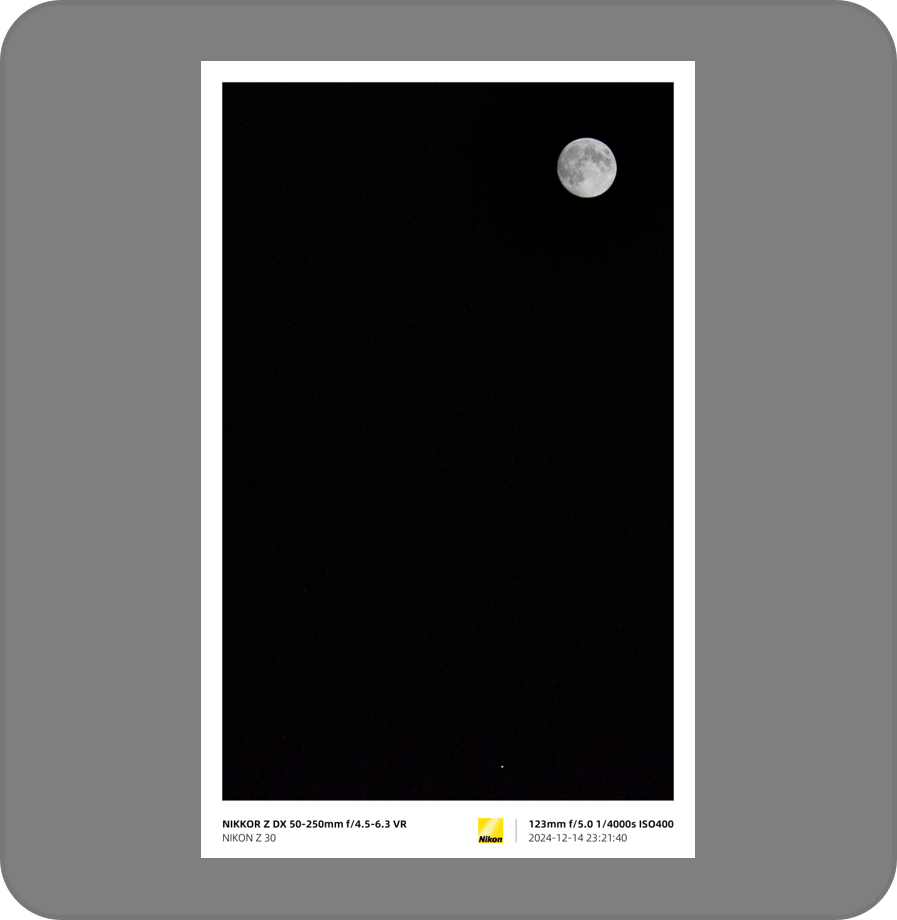
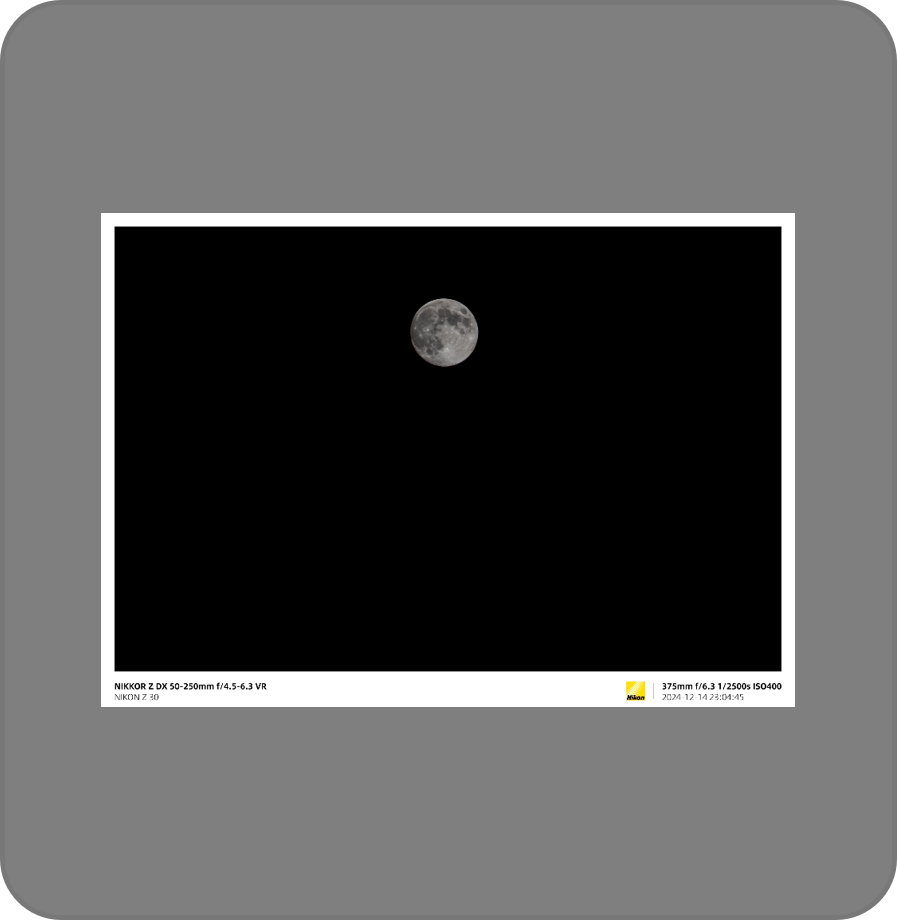
1. 优化水印样式排布
2. 添加一个水印样式

diff --git a/templates/index.html b/templates/index.html
@@ -22,8 +22,8 @@
         }
 
         img {
-            max-width: 500px;
-            max-height: 500px;
+            max-width: 400px;
+            max-height: 400px;
             margin: 10px 0;
         }
 
@@ -96,6 +96,114 @@
             padding: 0;
         }
         
+        .watermark-selection {
+            display: flex;
+            flex-direction: row;
+            gap: 20px;
+            overflow-x: scroll;
+            overflow-y: hidden;
+            padding-bottom: 10px;
+            -ms-overflow-style: none;  
+            scrollbar-width: none;
+            justify-content: center;
+            padding-left: 10px;  /* 保持左边距 */
+            padding-right: 10px;  /* 保持右边距 */
+            width: 100%;
+        }
+        
+        .watermark-selection::-webkit-scrollbar {
+            display: none;
+        }
+
+        .watermark-selection label {
+            outline: none;
+            -webkit-tap-highlight-color: transparent; 
+            display: flex;
+            flex-direction: column;
+            align-items: center;
+            cursor: pointer;
+            width: 200px;
+            position: relative;
+            transition: transform 0.3s ease;
+            flex-shrink: 0;  /* 防止图片被压缩 */
+            scroll-snap-align: start;  /* 滚动时对齐每个图片 */
+        }
+        
+        .watermark-selection input[type="radio"] {
+            display: none;
+        }
+
+        .watermark-selection input[type="radio"]:not(:checked):hover + label img,
+        .watermark-selection input[type="radio"]:not(:checked):focus + label img {
+            border: none;
+        }
+        
+        .watermark-selection label:hover {
+            transform: scale(1.05);
+        }
+
+        .watermark-selection img {
+            max-width: 100%;
+            height: auto;
+            margin-bottom: 10px;
+            transition: border 0.3s ease, transform 0.3s ease;
+        }
+
+        .watermark-selection input[type="radio"]:checked + label img,
+        .watermark-selection label:hover img {
+            border: 3px solid #3498db;
+            border-radius: 15px;
+        }
+        
+        @media (max-width: 768px) {
+            .watermark-selection {
+                justify-content: flex-start;
+                gap: 12px;
+            }
+
+            .watermark-selection label {
+                outline: none;
+                -webkit-tap-highlight-color: transparent;
+                display: flex;
+                flex-direction: column;
+                align-items: center;
+                cursor: pointer;
+                width: 140px;
+                position: relative;
+                transition: transform 0.3s ease;
+            }
+            
+        
+            .watermark-selection img {
+                width: 130px;
+                height: 130px;
+            }
+        
+            .custom-file-label {
+                font-size: 14px;
+                padding: 8px 16px;
+            }
+        
+            button, a {
+                font-size: 14px;
+                padding: 8px 16px;
+            }
+        
+            h1 {
+                font-size: 24px;
+            }
+        
+            .lang-buttons {
+                top: 20px;
+                right: 10px;
+            }
+        
+            .loader {
+                width: 40px;
+                height: 40px;
+            }
+        }
+    
     </style>
 </head>
 <body>
@@ -119,6 +227,7 @@
     <!-- 加载动画 -->
     <div id="loader" class="loader"></div>
 
+    <h2>Watermark types</h2>
     <div class="watermark-selection">
         <input type="radio" name="watermark_type" id="watermark1" value="1">
         <label for="watermark1">
@@ -129,6 +238,32 @@
         <label for="watermark2">
             <img src="{{ url_for('static', filename='t2.png') }}" alt="Watermark 2" width="200" height="200">
         </label>
+
+        <input type="radio" name="watermark_type" id="watermark3" value="3">
+        <label for="watermark3">
+            <img src="{{ url_for('static', filename='t3.png') }}" alt="Watermark 3" width="200" height="200">
+        </label>
+        
+        <!-- <input type="radio" name="watermark_type" id="watermark5" value="5">
+        <label for="watermark5">
+            <img src="{{ url_for('static', filename='t2.png') }}" alt="Watermark 5" width="200" height="200">
+        </label>
+
+        <input type="radio" name="watermark_type" id="watermark6" value="6">
+        <label for="watermark6">
+            <img src="{{ url_for('static', filename='t2.png') }}" alt="Watermark 6" width="200" height="200">
+        </label>
+
+        <input type="radio" name="watermark_type" id="watermark7" value="7">
+        <label for="watermark7">
+            <img src="{{ url_for('static', filename='t2.png') }}" alt="Watermark 7" width="200" height="200">
+        </label>
+
+        <input type="radio" name="watermark_type" id="watermark8" value="8">
+        <label for="watermark8">
+            <img src="{{ url_for('static', filename='t2.png') }}" alt="Watermark 8" width="200" height="200">
+        </label> -->
+
     </div>
 
     <!-- 处理后的图片显示 -->
@@ -137,16 +272,40 @@
     <a id="downloadBtn" style="display:none;">Download Processed Image</a>
     
     <script>
+        const watermarkSelection = document.querySelector('.watermark-selection');
+        const images = watermarkSelection.querySelectorAll('img');
+
+        watermarkSelection.addEventListener('scroll', function() {
+            const scrollLeft = watermarkSelection.scrollLeft;
+            const scrollWidth = watermarkSelection.scrollWidth;
+            const clientWidth = watermarkSelection.clientWidth;
+    
+            // 滚动到最左边时隐藏最左边图片
+            if (scrollLeft === 0) {
+                labels[0].style.visibility = 'hidden';  // 最左边的图片消失
+            } else {
+                labels[0].style.visibility = 'visible'; // 恢复显示
+            }
+    
+            // 滚动到最右边时隐藏最右边图片
+            if (scrollLeft + clientWidth >= scrollWidth) {
+                labels[labels.length - 1].style.visibility = 'hidden';  // 最右边的图片消失
+            } else {
+                labels[labels.length - 1].style.visibility = 'visible'; // 恢复显示
+            }
+            });
+            
         const translations = {
             en: {
                 title: "Image Watermark Web",
                 chooseFile: "Choose File",
                 uploadedImage: "Uploaded Image",
+                watermarkTypes: "Watermark types",
                 processImage: "Process Image",
                 processedImage: "Processed Image",
                 downloadImage: "Download Processed Image",
                 alerts: {
-                    uploadSuccess: "Image processed successfully!",
+                    uploadSuccess: "Watemark added successfully!",
                     uploadError: "Unexpected error occurred.",
                     selectWatermark: "Please select a watermark style!"
                 }
@@ -155,11 +314,12 @@
                 title: "边框水印",
                 chooseFile: "选择文件",
                 uploadedImage: "已上传图片",
+                watermarkTypes: "水印样式",
                 processImage: "开始添加水印",
                 processedImage: "已添加水印的图片",
                 downloadImage: "下载已添加水印的图片",
                 alerts: {
-                    uploadSuccess: "图片处理成功！",
+                    uploadSuccess: "水印添加成功！",
                     uploadError: "发生意外错误。",
                     selectWatermark: "请选择一种水印样式！"
                 }
@@ -173,8 +333,9 @@
             document.querySelector('h1').textContent = translations[lang].title;
             document.querySelector('.custom-file-label').textContent = translations[lang].chooseFile;
             document.querySelector('h2:nth-of-type(1)').textContent = translations[lang].uploadedImage;
+            document.querySelector('h2:nth-of-type(2)').textContent = translations[lang].watermarkTypes;
             document.getElementById('processBtn').textContent = translations[lang].processImage;
-            document.querySelector('h2:nth-of-type(2)').textContent = translations[lang].processedImage;
+            document.querySelector('h2:nth-of-type(3)').textContent = translations[lang].processedImage;
             document.getElementById('downloadBtn').textContent = translations[lang].downloadImage;
         }
 

diff --git a/image_utils.py b/image_utils.py
@@ -52,7 +52,7 @@ def draw_line(origin_image, start_x, start_y, end_x, end_y):
 def calculate_position(x, y_offset, x_adjust=0, y_adjust=0):
         return (x + x_adjust, y_offset + y_adjust)    
                 
-def generate_watermark_image(origin_image, logo_path, camera_info, shooting_info, font_path_thin, font_path_bold,  watermark_type = 1, font_size = 60):
+def generate_watermark_image(origin_image, logo_path, camera_info, shooting_info, font_path_thin, font_path_bold,  watermark_type = 3, font_size = 60):
     ori_width, ori_height = origin_image.size
     bottom_width = int(ORIGIN_BOTTOM_BORDER_RATIO * ori_height)
     top_width = int(ORIGIN_TOP_BORDER_RATIO * ori_height)
@@ -62,12 +62,16 @@ def generate_watermark_image(origin_image, logo_path, camera_info, shooting_info
         origin_image = ImageOps.expand(origin_image, 
                         border=(border_width, top_width, border_width, bottom_width), 
                         fill='white')
-    else:
+    elif watermark_type == 2:
         top_width = 0
         origin_image = ImageOps.expand(origin_image, 
                         border=(0, 0, 0, bottom_width), 
                         fill='white')
-    
+    else:
+        origin_image = ImageOps.expand(origin_image, 
+                        border=(border_width, top_width, border_width, int(1.5 * bottom_width)), 
+                        fill='white')
+    expanded_width, expanded_height = origin_image.size
     line_blank = 40
     logo_ratio = LOGO_RATIO
     logo_location_denominator = 4
@@ -80,10 +84,14 @@ def generate_watermark_image(origin_image, logo_path, camera_info, shooting_info
         bottom_width = bottom_width * 4
         text_resize_factor = text_resize_factor / 1.5
         
+    if (watermark_type == 3):
+        logo_ratio = 0.095
+        
     left_top = image_resize(text_to_image(camera_info[0], font_path_bold, font_size), text_resize_factor)
     left_bottom = image_resize(text_to_image(camera_info[1], font_path_thin, font_size), text_resize_factor)
     right_top = image_resize(text_to_image(shooting_info[0], font_path_bold, font_size), text_resize_factor)
     right_bottom = image_resize(text_to_image(shooting_info[1], font_path_thin, font_size), text_resize_factor)
+
     
     logo = Image.open(logo_path).convert("RGBA")
     logo_height = int(ori_height * logo_ratio)
@@ -97,6 +105,9 @@ def generate_watermark_image(origin_image, logo_path, camera_info, shooting_info
     text_image_height = left_top.height
     right_top_width = right_top.width  
     
+    row_1 = logo
+    row2 = right_top
+    
     text_block_height = top_width + ori_height + int(bottom_width / 2) - int(5 * text_image_height / 4)
     line_start_y_landscape = top_width + ori_height + int(bottom_width / 2) - int(19 * text_image_height / 3)
     line_end_y_landscape = top_width + ori_height + int(bottom_width / 2) - int(14 * text_image_height / 3)
@@ -106,7 +117,7 @@ def generate_watermark_image(origin_image, logo_path, camera_info, shooting_info
 
     def get_positions(orientation, watermark_type):
         x_left = border_width
-        x_right = ori_width - right_top_width - border_width if watermark_type == 2 else border_width + ori_width - right_top_width
+        x_right = border_width + ori_width - right_top_width if watermark_type == 1 else ori_width - right_top_width - border_width 
         y_base = top_width + ori_height + int(bottom_width / 2)
 
         positions = [
@@ -125,7 +136,26 @@ def generate_watermark_image(origin_image, logo_path, camera_info, shooting_info
                 (right_bottom, calculate_position(x_right, y_base, y_adjust=int(1 * text_image_height / 8))),
                 (logo, calculate_position(x_right - logo.width - 2 * line_blank, text_block_height, y_adjust=int(text_image_height / logo_location_denominator)))
             ]
-
+            
+        if watermark_type == 3:
+            if orientation == "landscape":
+                positions = [
+                    (row_1, calculate_position(int((expanded_width - logo.width / 2) / 2), 
+                                              y_base, 
+                                              y_adjust=-int(20 * text_image_height / 3))),
+                     (row2, calculate_position(int((expanded_width - row2.width) / 2), 
+                                              y_base, 
+                                              y_adjust=-int(12.5 * text_image_height / 3))),
+            ]
+            else:
+                positions = [
+                    (row_1, calculate_position(int((expanded_width - logo.width) / 2), 
+                                              y_base, 
+                                              y_adjust=-int(9 * text_image_height / 8))),
+                    (row2, calculate_position(int((expanded_width - row2.width) / 2), 
+                                              y_base, 
+                                              y_adjust=int(19 * text_image_height / 8))),
+            ]
         return positions
 
     def get_line_coordinates(orientation, watermark_type):
@@ -139,7 +169,8 @@ def generate_watermark_image(origin_image, logo_path, camera_info, shooting_info
     line_coords = get_line_coordinates(orientation, watermark_type)
 
     paste_text_logo(origin_image, positions)
-    draw_line(origin_image, *line_coords)
+    if watermark_type != 3:
+        draw_line(origin_image, *line_coords)
      
     return origin_image
     

diff --git a/app.py b/app.py
@@ -105,4 +105,4 @@ def upload_file_served(filename):
     return send_from_directory(app.config['UPLOAD_FOLDER'], filename)
 
 if __name__ == '__main__':
-    app.run(debug=True)
+    app.run(debug=True, host='0.0.0.0', port=5000)
